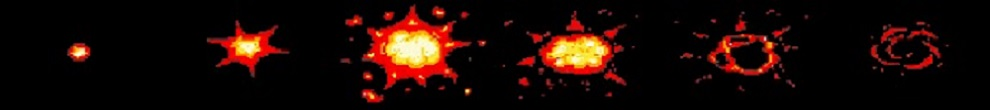
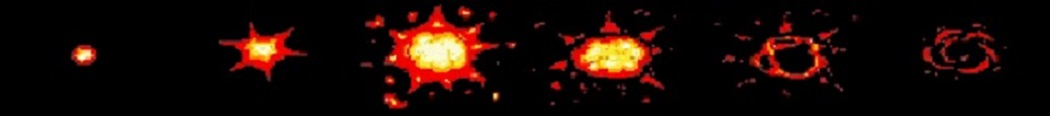
Ajuste de localizacao da explosao da barreira

diff --git a/src2/barrier.c b/src2/barrier.c
@@ -20,8 +20,10 @@ void InitBarrier(void)
         bar[i].exp_bar.currentframe = 0;
         bar[i].exp_bar.framedelay = 10;
         bar[i].exp_bar.framecounter = 0;
-        bar[i].exp_bar.framewidth = 165;
-        bar[i].exp_bar.frameheight = 110;
+        bar[i].exp_bar.framewidth = 175;
+        bar[i].exp_bar.frameheight = 116;
+        bar[i].exp_bar.x = bar[i].x - 30;
+        bar[i].exp_bar.y = 530;
         bar[i].exp_bar.start_exp = false;
     }
 }
@@ -32,7 +34,7 @@ void lifeBarrier(void)
     for(int i = 0; i <NUM_BARRIERS; ++i)
     {
         if(bar[i].live){
-            if(bar[i].life_up < 1 && bar[i].life_down < 1)
+            if(bar[i].life_up < 1 || bar[i].life_down < 1)
             {
                 bar[i].live = false;
                 bar[i].exp_bar.start_exp = true;
@@ -63,7 +65,7 @@ void draw_explosion_barrier(void)
 {
     for(int i=0; i< NUM_BARRIERS; ++i){
         if(bar[i].exp_bar.start_exp){
-            al_draw_bitmap_region(img_exp_bar, bar[i].exp_bar.currentframe * bar[i].exp_bar.framewidth, 0, bar[i].exp_bar.framewidth, bar[i].exp_bar.frameheight, bar[i].x, bar[i].y, 0);
+            al_draw_bitmap_region(img_exp_bar, bar[i].exp_bar.currentframe * bar[i].exp_bar.framewidth, 0, bar[i].exp_bar.framewidth, bar[i].exp_bar.frameheight, bar[i].exp_bar.x, bar[i].exp_bar.y, 0);
              al_convert_mask_to_alpha(img_exp_bar, al_map_rgb(255,255,255));
         }
     }

diff --git a/src2/barrier.h b/src2/barrier.h
@@ -16,6 +16,8 @@ typedef struct
     int framecounter;
     int framewidth;
     int frameheight;
+    int y;
+    int x;
     bool start_exp;
 
 }explosion_bar;
